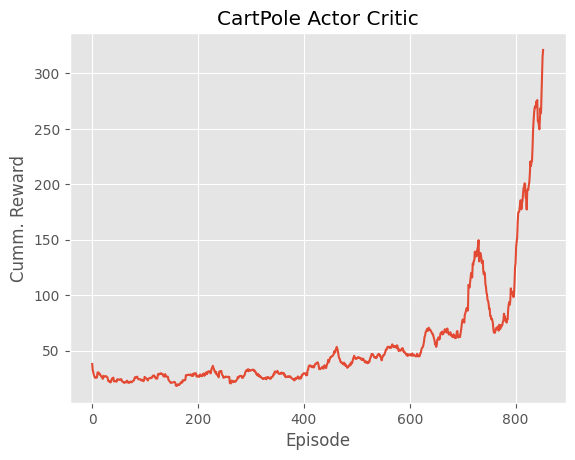
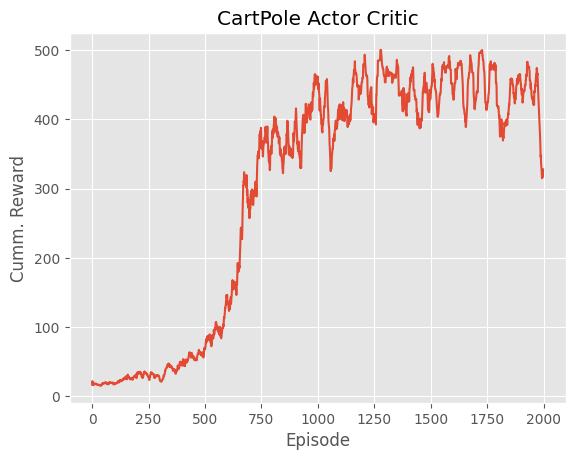
fix: fixed actor-critic impl

diff --git a/src/policy_methods/actor_critic.py b/src/policy_methods/actor_critic.py
@@ -1,10 +1,12 @@
 import torch.nn as nn
+import numpy as np
 import gymnasium as gym
 import torch
 
 from datetime import datetime
 from policy_methods.reinforce import PolicyGradient
 from policy_methods.utils import RollingAverage
+
 
 class Critic(nn.Module):
     
@@ -38,9 +40,7 @@ class Critic(nn.Module):
             self.layers.append(nn.ReLU())
             
         self.layers.append(nn.Linear(hidden_layers[-1], environ.action_space.n))
-        self.optimizer = torch.optim.AdamW(self.parameters(), lr=learning_rate, weight_decay=0.001)
-        
-        self.apply(self._init_weights)
+        self.optimizer = torch.optim.AdamW(self.parameters(), lr=learning_rate)
     
     def forward(
         self,
@@ -56,25 +56,19 @@ class Critic(nn.Module):
         action: torch.tensor, 
         next_action: torch.tensor,
         reward: torch.tensor,
-        done: bool
+        done: torch.tensor
     ) -> torch.tensor:
-        value = self(state)[:, action]
+        value = self(state).gather(1, action)
         with torch.no_grad():
-            next_value = self(next_state)[:, next_action]
+            next_value = self(next_state).gather(1, next_action)
         td_target = reward + self.gamma * next_value * (1 - done)
         
         self.optimizer.zero_grad()
-        loss = torch.functional.F.mse_loss(value, td_target, reduction='none').sum()
-        loss.backward()
+        loss = torch.functional.F.mse_loss(value, td_target, reduction='none')
+        loss.sum().backward()
         self.optimizer.step()
         
         return td_target - value
-    
-    def _init_weights(self, m):
-        if isinstance(m, nn.Linear):
-            torch.nn.init.orthogonal_(m.weight, gain=1.0)
-            if m.bias is not None:
-                torch.nn.init.zeros_(m.bias)
 
 class QActorCritic:
     
@@ -130,43 +124,62 @@ class QActorCritic:
     ) -> list:
         
         avg = RollingAverage(20)
+
+        buffer = {'states': [], 'next_states' : [], 'actions': [], 'next_actions' : [], 'rewards' : [], 'dones' : []}
         
-        obs, _ = self.env.reset()
-        action = self.actor.select_action(obs)
-        ep_reward = 0
+        def update_buffer(state, next_state, action, next_action, reward, done):
+            buffer['states'].append(state)
+            buffer['next_states'].append(next_state)
+            buffer['actions'].append(action)
+            buffer['next_actions'].append(next_action)
+            buffer['rewards'].append(reward)
+            buffer['dones'].append(done)
+        
+        def reset_buffer():
+            return {'states': [], 'next_states' : [], 'actions': [], 'next_actions' : [], 'rewards' : [], 'dones' : []}
+        
+        def get_batch():
+            return buffer['states'], buffer['next_states'], buffer['actions'], buffer['next_actions'], buffer['rewards'], buffer['dones']
+        
         for step in range(1, num_steps):
-            obs_prime, reward, terminated, truncated, _ = self.env.step(action)
-            
-            ep_reward += reward
-            next_action = self.actor.select_action(obs_prime)
-            
-            target = self.critic.update_step(
-                torch.as_tensor(obs, device=self.device).unsqueeze(dim=0),
-                torch.as_tensor(obs_prime, device=self.device).unsqueeze(dim=0),
-                torch.as_tensor(action, device=self.device).unsqueeze(dim=0),
-                torch.as_tensor(next_action, device=self.device).unsqueeze(dim=0),
-                torch.as_tensor(reward, device=self.device).unsqueeze(dim=0),
-                terminated or truncated
-            )
+            obs, _ = self.env.reset()
+            action = self.actor.select_action(obs)
+            done = False
+            ep_reward = 0 
+            while not done:
+                obs_prime, reward, terminated, truncated, _ = self.env.step(action)
+                next_action = self.actor.select_action(obs_prime)     
+                                
+                ep_reward += reward
+                done = terminated or truncated
+                update_buffer(obs, obs_prime, action, next_action, reward, done)
                 
+                obs = obs_prime
+                action = next_action
+            
+            batch_obs, batch_obs_prime, batch_actions, batch_actions_prime, batch_rewards, batch_dones = get_batch()
+            
+            targets = self.critic.update_step(
+                torch.as_tensor(np.array(batch_obs), dtype=torch.float32, device=self.device).view(-1, 4), # placeholder 4
+                torch.as_tensor(np.array(batch_obs_prime), dtype=torch.float32, device=self.device).view(-1, 4),
+                torch.as_tensor(np.array(batch_actions), dtype=torch.int64, device=self.device).view(-1, 1),
+                torch.as_tensor(np.array(batch_actions_prime), dtype=torch.int64, device=self.device).view(-1, 1),
+                torch.as_tensor(np.array(batch_rewards), dtype=torch.float32, device=self.device).view(-1, 1),
+                torch.as_tensor(np.array(batch_dones), dtype=torch.int64, device=self.device).view(-1, 1)
+            )
             
             self.actor.update_step(
-                [obs], 
-                [action],
-                target.detach()
+                buffer['states'], 
+                buffer['actions'],
+                targets.detach()
             )
-            
-            obs = obs_prime
-            action = next_action
-            if terminated or truncated: 
-                obs, _ = self.env.reset()
-                action = self.actor.select_action(obs)
-                avg.update(ep_reward)
-                ep_reward = 0
-                
-                print(f'Step: {step+1} | Avg Reward: {avg.get_average:.1f}', end='\r')
-            
+        
+            avg.update(ep_reward)
+            print(f'Step: {step+1} | Avg Reward: {ep_reward:.1f}', end='\r')
+            ep_reward = 0
+            buffer = reset_buffer()
+
         if save:
-            torch.save(self.actor.state_dict(), f'../models/{self._agent_name}_{self.game_name.upper()}_{datetime.now().strftime('%Y-%m-%d_%H-%M-%S')}')
+            torch.save(self.actor.state_dict(), f'models/{self._agent_name}_{self.game_name.upper()}_{datetime.now().strftime('%Y-%m-%d_%H-%M-%S')}')
 
         return avg.averages

diff --git a/src/policy_methods/reinforce.py b/src/policy_methods/reinforce.py
@@ -113,7 +113,7 @@ class PolicyGradient(nn.Module):
         
     def train(
         self,
-        num_eps: int = 200,
+        num_steps: int = 200,
         save=False
     ) -> list:
         average_rewards = RollingAverage(20)
@@ -127,7 +127,7 @@ class PolicyGradient(nn.Module):
         def reset_buffer():
             return {'states': [], 'actions': [], 'rewards' : []}
         
-        for step in range(num_eps):
+        for step in range(num_steps):
             obs, _ = self.env.reset()
             done = False
             ep_reward = 0 
